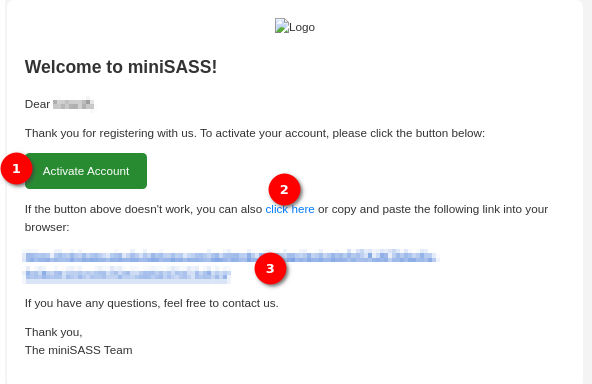
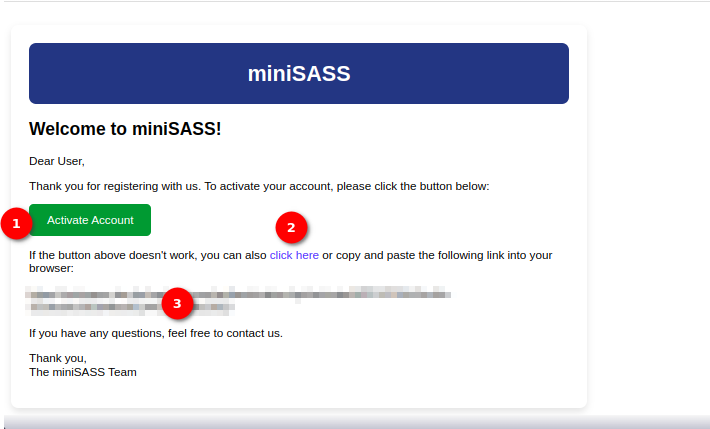
Update logout manual (#1002)
* Update the logout manual

* Update register manual

* Update the images

* Apply suggestions from code review

Minor change

---------

Changed region(s): [[0.0, 0.0312, 0.9426, 0.9375], [0.0, 0.9688, 1.0, 1.0]]

diff --git a/docs/src/user/manual/login-logout/logout.md b/docs/src/user/manual/login-logout/logout.md
@@ -8,4 +8,12 @@ The `Logout` link allows the user to securely end the user's session on the plat
 
 1. **Logout:** Click on the `Logout` link, to log out. The platform will securely log the user out, terminating the user's current session. This is important for maintaining the security of the user's account. After successfully logging out the user will redirected to the home page.
 
-![Home Page](./img/logout-2.png)
+    ![Home Page](./img/logout-2.png)
+
+    1. **Yes:** After clicking on the `Logout` option, a confirmation popup will open. Click on the `Yes` to logout from the miniSASS account.
+
+    ![Confirmation popup](./img/logout-3.png)
+
+    Congratulations! You have successfully logged out of the miniSASS account.
+
+>Remember to keep your login credentials confidential and to log out of your account when using shared or public computers to maintain the security of your information.

diff --git a/docs/src/user/manual/register/register.md b/docs/src/user/manual/register/register.md
@@ -60,4 +60,8 @@ The miniSASS Register form allows users to create a new account and participate 
 
 3. **Register Button:** Once all the required information is entered, click the `Register` button to submit the registration.
 
-    - For detailed activate account instructions, refer to the [activate account documentation](./activate-account.md).
+On successful submission the success message will be shown.
+
+![Success message](./img/register-7.png)
+
+- For detailed activate account instructions, refer to the [activate account documentation](./activate-account.md).

diff --git a/docs/src/user/guide/register-login-logout.md b/docs/src/user/guide/register-login-logout.md
@@ -72,7 +72,7 @@ On any page within the miniSASS platform, look for the profile icon. This icon i
 
 ![Logout 1](./img/register-login-logout-7.png)
 
- Simply click on the `Logout` option. This action will open a confirmation popup. Click on the 1⃣ `Yes` to out of your miniSASS account.
+ Simply click on the `Logout` option. This action will open a confirmation popup. Click on the 1⃣ `Yes` to logout from your miniSASS account.
 
 ![Logout 2](./img/register-login-logout-8.png)
 
